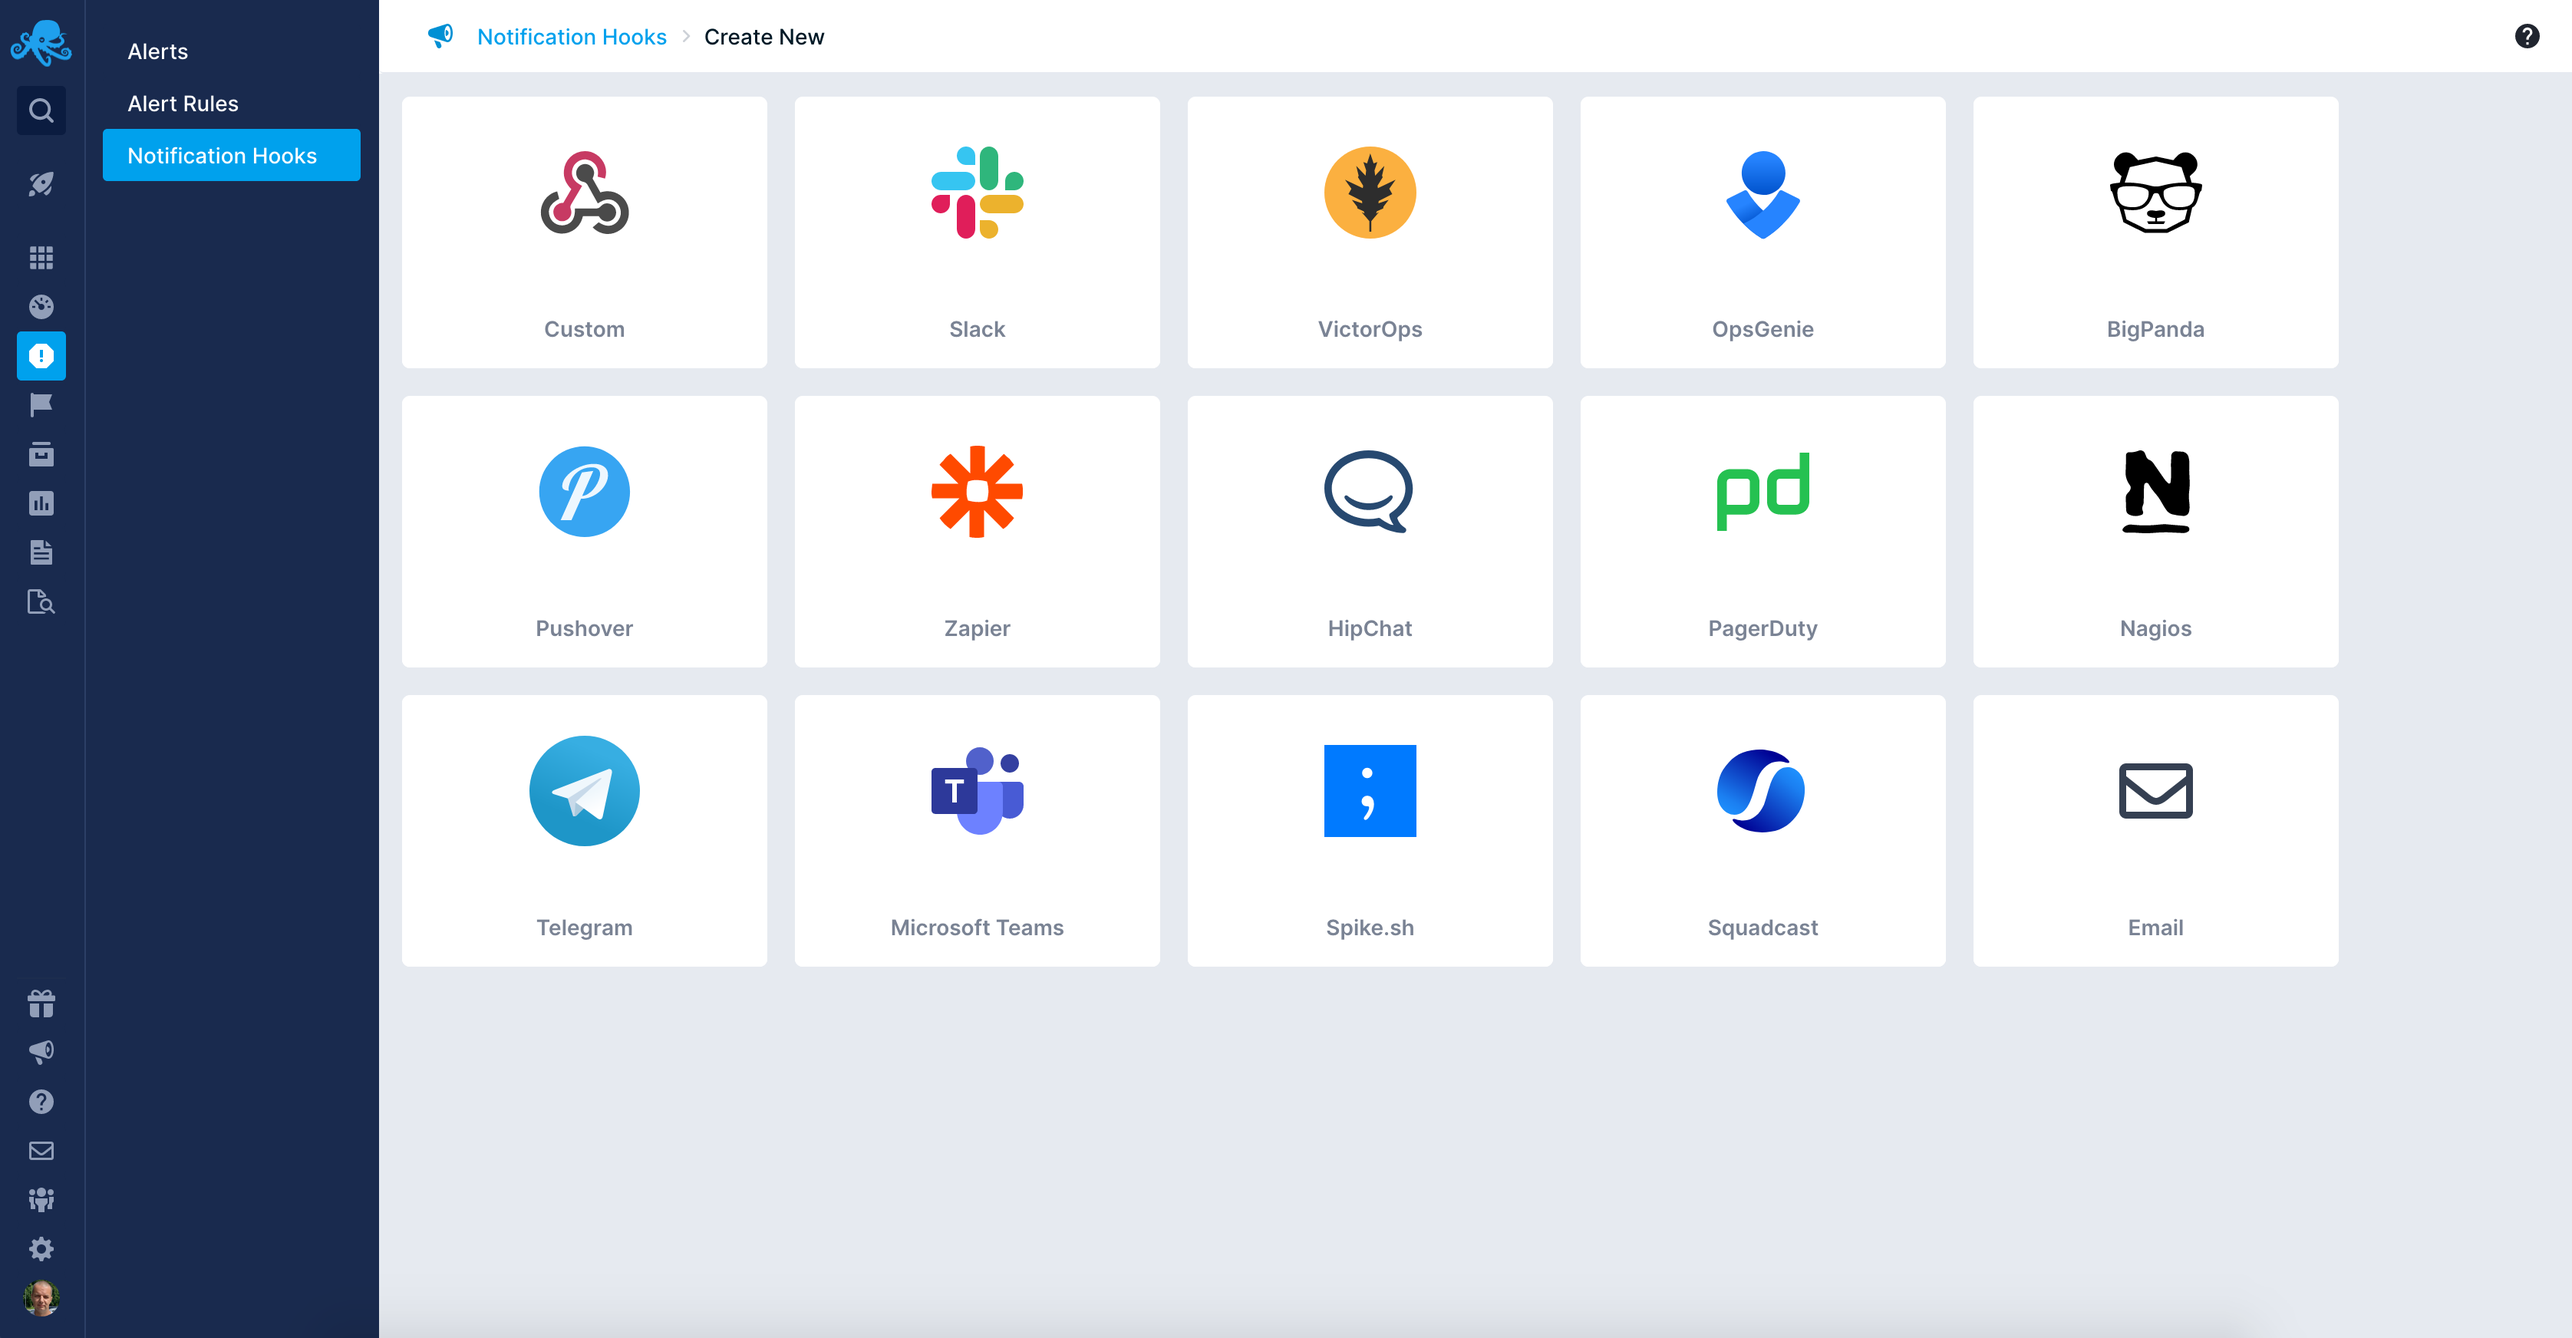
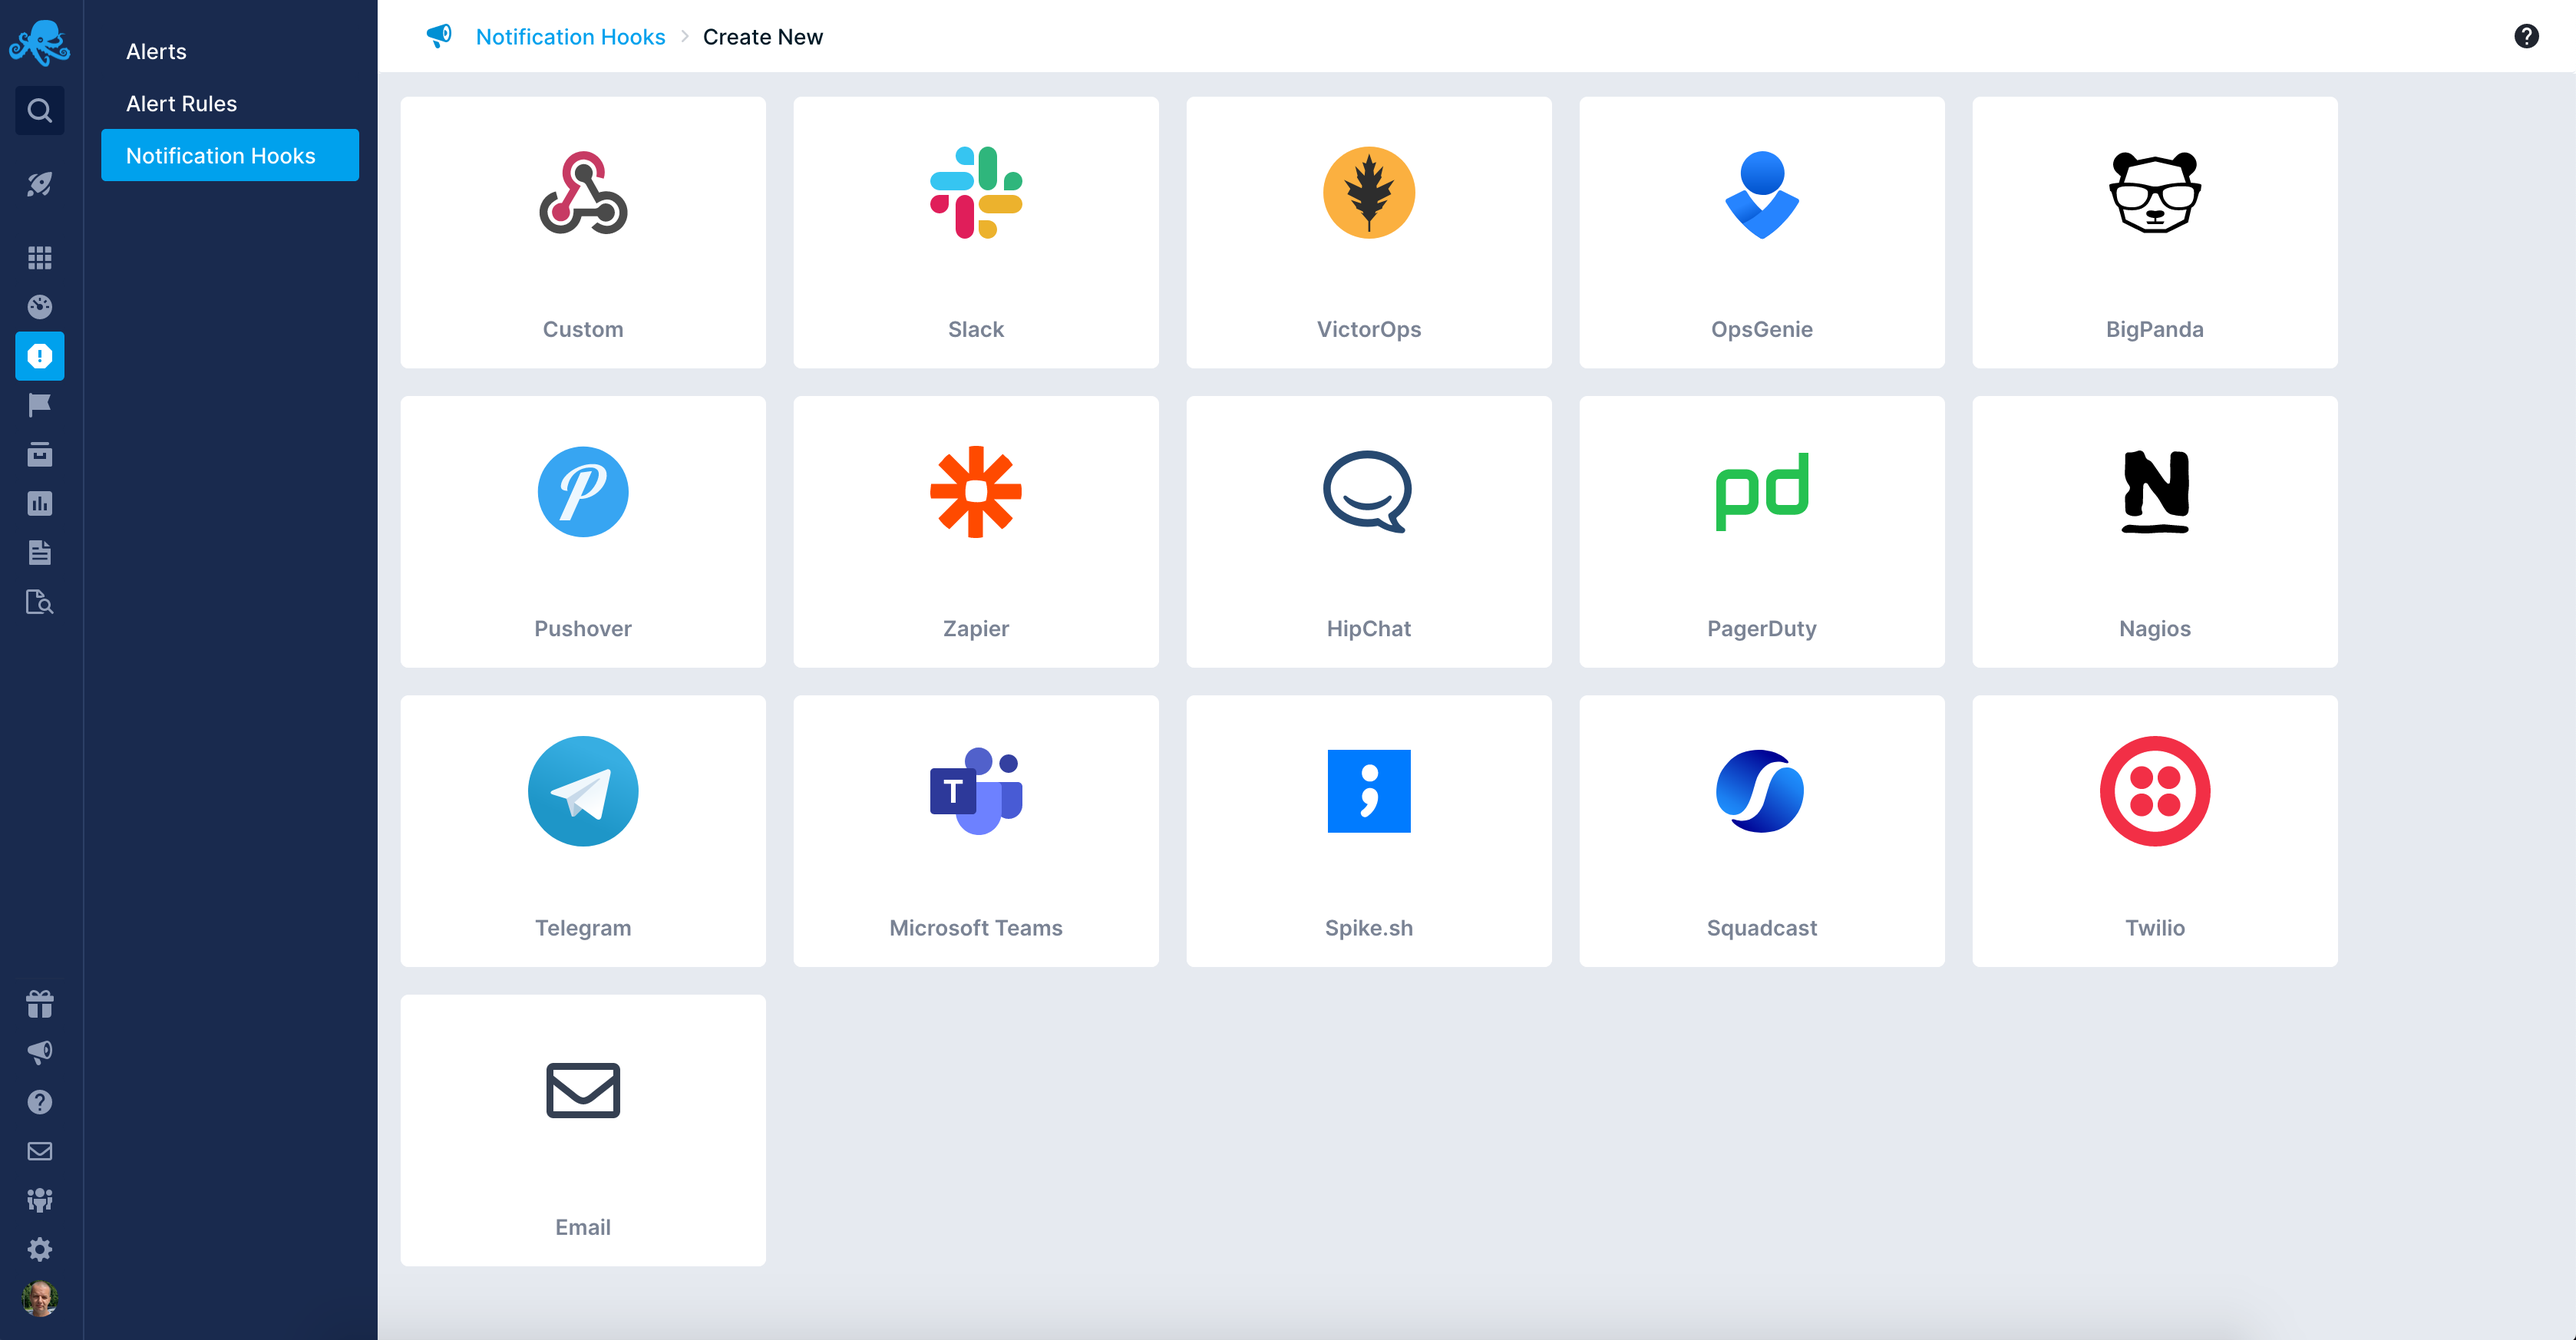
Twilio notification hook docs

diff --git a/docs/integration/alerts-twilio-integration.md b/docs/integration/alerts-twilio-integration.md
@@ -1,0 +1,44 @@
+title: Twilio Alerts Integration
+description: Sematext threshold, anomaly and / or heartbeat Alerts integration with Twilio. Use them together to get the information about each notification quickly and on any device.
+
+## In Telegram
+
+**1.** Create a Twilio account at [twilio.com](https://twilio.com).
+
+**2.** Go to your Twilio project that you want to send notifications to and setup a new Twilio **Phone number**. This number will be used as the sender or the SMS messages. If you are testing Twilio you can click the **Get a Trial Number** button to generate a temporary phone number for tests. In addition to the phone number you will also need the **Account SID** and the **Auth Token** to be able to setup the notification in Sematext. Note those down:
+
+<img class="content-modal-image" alt="Create Twilio Integration - Credentials" src="../../images/integrations/create-twilio-integration-create-phone-number.png" title="Create Twilio Integration - Credentials">
+
+If you wish to test Sematext notifications in Twilio test environment head to **Settings** and its **General** subsection to get the test **Account SID** and the **Auth Token**.
+
+<img class="content-modal-image" alt="Create Twilio Integration - Test Credentials" src="../../images/integrations/create-twilio-integration-settings.png" title="Create Twilio Integration - Test Credentials">
+
+**3.** If you didn't have a Twilio phone number earlier clicking the **Get a Trial Number** button will result in displaying your phone number. Click the **Choose this Number** to accept it:
+
+<img class="content-modal-image" alt="Create Twilio Integration - New Phone Number" src="../../images/integrations/create-twilio-integration-confirm-phone-number.png" title="Create Twilio Integration - New Phone Number">
+
+**4.** Once accepted note down the phone number:
+
+<img class="content-modal-image" alt="Create Twilio Integration - Phone Number" src="../../images/integrations/create-twilio-integration-display-phone-number.png" title="Create Twilio Integration - Phone Number">
+
+Once we have the **Accound SID**, the **Auth token** and the **Twilio phone number** we can create the Twilio notification hook in Sematext.
+
+## In Sematext
+
+**1.** Navigate to [Notification Hooks](https://apps.sematext.com/ui/webhook-create) and select Twilio card to create a new Twilio notification hook.
+
+![Sematext Notification Hooks](../../images/integrations/sematext-notification-hooks.png "Sematext Notification Hook")
+
+**2.** Add your notification hook name and Twilio API details by providing: **Accound SID**, **Auth token**, **destination phone number**, and **Twilio phone number**.
+
+<img class="content-modal-image" alt="Create Twilio Integration" src="../../images/integrations/create-twilio-integration.png" title="Create Twilio Integration">
+
+Next, click the **Send Test Notification** button. Twilio returns status code **201** indicating everything is configured correctly. Check your phone if the SMS from Twilio was delivered. 
+
+Once the SMS is visible click the **Save Notification Hook** button to save your configuration. 
+
+That's it. Notifications sent to Twilio can also be sent via other channels such as e-mail, Pagerduty, Nagios, etc. Check [alerts](/integration) to learn more about other channels and types of alerts available.
+
+We hope you enjoy using Sematext App and infrastructure monitoring and log management tools. If you need further support or have any feedback regarding our products, please don't hesitate to [contact us](mailto:support@sematext.com)!
+
+You can also contact / talk to us using chat widget at the bottom right corner of the page or give us a shout [@Sematext](http://twitter.com/sematext).

diff --git a/docs/integration/index.md b/docs/integration/index.md
@@ -576,6 +576,7 @@ All of the integrations require adding and [configuring the Experience script](.
 - [Microsoft Teams](/integration/alerts-teams-integration/)
 - [Spike.sh](/integration/alerts-spikesh-integration/)
 - [Squadcast](/integration/alerts-squadcast-integration/)
+- [Twilio](/integration/alerts-twilio-integration/)
 
 ## Alerting
 
